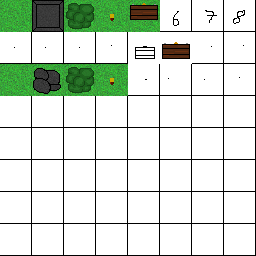
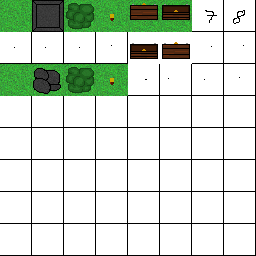
changes

Changed region(s): [[0.625, 0.0, 0.75, 0.125], [0.5, 0.1562, 0.625, 0.25]]

diff --git a/Game++ Tile/src/de/nerogar/game/entity/EntityPlayer.java b/Game++ Tile/src/de/nerogar/game/entity/EntityPlayer.java
@@ -29,6 +29,8 @@ public class EntityPlayer extends Entity {
 		maxEnergy = 100;
 		energy = maxEnergy;
 		moveSpeed = 3.0f;
+		
+		//light = new Light(0, 0, 5f,2.0f);
 	}
 
 	@Override
@@ -52,10 +54,6 @@ public class EntityPlayer extends Entity {
 			moveY(moveSpeed * time * speedmult);
 		}
 
-		if (Keyboard.isKeyDown(Keyboard.KEY_E)) {
-			map.setTile((int) posX, (int) posY, Map.TORCH);
-		}
-
 		if (Keyboard.isKeyDown(Keyboard.KEY_1)) {
 			selectedWeapon = 0;
 		} else if (Keyboard.isKeyDown(Keyboard.KEY_2) && weapons.size() > 1) {
@@ -65,6 +63,10 @@ public class EntityPlayer extends Entity {
 		} else if (Keyboard.isKeyDown(Keyboard.KEY_4) && weapons.size() > 3) {
 			selectedWeapon = 3;
 		}
+		if (InputHandler.isMouseButtonPressed(1)) {
+			selectedWeapon = (selectedWeapon + 1) % weapons.size();
+		}
+		selectedWeapon = (selectedWeapon - Integer.signum(Mouse.getDWheel()) + weapons.size()) % weapons.size();
 
 		for (Weapon weapon : weapons) {
 			weapon.update(time);
@@ -76,15 +78,11 @@ public class EntityPlayer extends Entity {
 
 			Weapon weapon = weapons.get(selectedWeapon);
 
-			if (weapon.cooldown <= 0f && energy >= weapon.getEnergyCost()) {
+			if (weapon.cooldown <= 0f && energy >= weapon.getEnergyCost() && weapon.canActivate()) {
 				weapons.get(selectedWeapon).start(targetX, targetY);
 				energy -= weapons.get(selectedWeapon).getEnergyCost();
 				weapon.cooldown = weapon.maxCooldown;
 			}
-		}
-
-		if (InputHandler.isMouseButtonPressed(1)) {
-			selectedWeapon = (selectedWeapon + 1) % weapons.size();
 		}
 
 		if (nextEnergyRestore <= 0 && energy < maxEnergy) {

diff --git a/Game++ Tile/src/de/nerogar/game/MapLoader.java b/Game++ Tile/src/de/nerogar/game/MapLoader.java
@@ -22,6 +22,10 @@ public class MapLoader {
 			return Map.TORCH.id;
 		case 0x0080:
 			return Map.CHEST.id;
+		case 0x00ff:
+			return Map.DOOR.id;
+		case 0xffff:
+			return Map.GRASS.id;//spawn
 
 		default:
 			return Map.GRASS.id;
@@ -30,6 +34,10 @@ public class MapLoader {
 
 	private static boolean hasMob(int color) {
 		return (color & 0xff0000) != 0x0;
+	}
+
+	private static boolean isSpawn(int color) {
+		return (color & 0x00ffff) == 0xffff;
 	}
 
 	private static Entity getEntity(Map map, int color, float posX, float posY) {
@@ -46,6 +54,9 @@ public class MapLoader {
 		int[] pixels;
 		int width;
 		int height;
+
+		float playerX = 0f;
+		float playerY = 0f;
 
 		try {
 			image = ImageIO.read(new File("res/" + filename));
@@ -68,9 +79,13 @@ public class MapLoader {
 				Entity entity = getEntity(map, pixels[i], i % mapSize, i / mapSize);
 				map.spawnEntity(entity);
 			}
+			if (isSpawn(pixels[i])) {
+				playerX = i % mapSize;
+				playerY = i / mapSize;
+			}
 		}
 
-		map.load(tileIDs, mapSize);
+		map.load(tileIDs, mapSize, playerX, playerY);
 		return map;
 	}
 }

diff --git a/Game++ Tile/src/de/nerogar/game/Map.java b/Game++ Tile/src/de/nerogar/game/Map.java
@@ -19,8 +19,12 @@ public class Map {
 	public static final Tile TREE = new Tile(2, true);
 	public static final Tile TORCH = new Tile(3, false);
 	public static final Tile CHEST = new Tile(4, true);
-
-	public static final Tile[] TILES = new Tile[] { GRASS, ROCK, TREE, TORCH, CHEST };
+	public static final Tile OPEN_CHEST = new Tile(5, true);
+	public static final Tile DOOR = new Tile(6, false);
+	public static final Tile DOOR_OPEN = new Tile(7, false);
+	public static final Tile FLOOR = new Tile(8, false);
+	
+	public static final Tile[] TILES = new Tile[] { GRASS, ROCK, TREE, TORCH, CHEST, OPEN_CHEST, DOOR, DOOR_OPEN };
 
 	public static final float TILE_RENDER_SIZE = 64f;
 	public static final float TEXTURE_SIZE = 256f;
@@ -172,10 +176,11 @@ public class Map {
 		tileIDs[x + y * size] = tile.id;
 	}
 
-	public void load(int[] tileIDs, int size) {
+	public void load(int[] tileIDs, int size, float playerX, float playerY) {
 		this.tileIDs = tileIDs;
 		this.size = size;
-
+		player.posX = playerX;
+		player.posY = playerY;
 	}
 
 	private void calcLightSources() {

diff --git a/Game++ Tile/src/de/nerogar/game/Game.java b/Game++ Tile/src/de/nerogar/game/Game.java
@@ -26,14 +26,14 @@ public class Game {
 
 	public void run() {
 		while (!Display.isCloseRequested()) {
-			long time1 = System.nanoTime();
+			//long time1 = System.nanoTime();
 			update();
 			render();
 			Display.sync(FRAMERATE);
 			Display.update();
 			glClear(GL_COLOR_BUFFER_BIT | GL_DEPTH_BUFFER_BIT);
-			long time2 = System.nanoTime();
-			System.out.println("time: " + ((time2 - time1) / 1000000d));
+			//long time2 = System.nanoTime();
+			//System.out.println("time: " + ((time2 - time1) / 1000000d));
 		}
 		SoundManager.shutdown();
 	}

diff --git a/Game++ Tile/src/de/nerogar/game/entity/Entity.java b/Game++ Tile/src/de/nerogar/game/entity/Entity.java
@@ -8,10 +8,17 @@ import de.nerogar.game.graphics.TextureBank;
 
 public abstract class Entity {
 
+	public static final int DIR_UP = 0;
+	public static final int DIR_DOWN = 1;
+	public static final int DIR_LEFT = 2;
+	public static final int DIR_RIGHT = 4;
+
 	public Map map;
 
 	public float posX;
 	public float posY;
+	public int facingDir;
+
 	public float width = 1f;
 	public float height = 1f;
 

diff --git a/Game++ Tile/src/de/nerogar/game/entity/EntitySmallEnemy.java b/Game++ Tile/src/de/nerogar/game/entity/EntitySmallEnemy.java
@@ -27,7 +27,9 @@ public class EntitySmallEnemy extends EntityEnemy {
 
 	@Override
 	public void onDie() {
-		Vector center = getCenter();
-		map.spawnEntity(new EntityEnergyDrop(map, center.getX(), center.getY()));
+		if (Math.random() < 0.3) {
+			Vector center = getCenter();
+			map.spawnEntity(new EntityEnergyDrop(map, center.getX(), center.getY()));
+		}
 	}
 }

diff --git a/Game++ Tile/src/de/nerogar/game/graphics/StatusBar.java b/Game++ Tile/src/de/nerogar/game/graphics/StatusBar.java
@@ -10,12 +10,11 @@ public class StatusBar {
 	private float textureHeight = pixelHeight / Map.TEXTURE_SIZE;
 	public float texturePos = 0;
 
-	private Map map;
 	public float posX;
 	public float posY;
 
-	public StatusBar(Map map) {
-		this.map = map;
+	public StatusBar() {
+
 	}
 
 	public void render() {

diff --git a/Game++ Tile/src/de/nerogar/game/graphics/GuiIngame.java b/Game++ Tile/src/de/nerogar/game/graphics/GuiIngame.java
@@ -14,8 +14,8 @@ public class GuiIngame extends Gui {
 
 	public GuiIngame(EntityPlayer player) {
 		this.player = player;
-		lifeBar = new StatusBar(player.map);
-		energyBar = new StatusBar(player.map);
+		lifeBar = new StatusBar();
+		energyBar = new StatusBar();
 		energyBar.texturePos = 1;
 	}
 

diff --git a/Game++ Tile/src/de/nerogar/game/weapon/Weapon.java b/Game++ Tile/src/de/nerogar/game/weapon/Weapon.java
@@ -26,6 +26,8 @@ public abstract class Weapon {
 
 	public abstract void start(float targetX, float targetY);
 
+	public abstract boolean canActivate();
+
 	public void update(float time) {
 		cooldown -= time;
 	}

diff --git a/Game++ Tile/src/de/nerogar/game/weapon/Heal.java b/Game++ Tile/src/de/nerogar/game/weapon/Heal.java
@@ -19,4 +19,9 @@ public class Heal extends Weapon {
 		return 20;
 	}
 
+	@Override
+	public boolean canActivate() {
+		return player.health != player.maxEnergy;
+	}
+
 }

diff --git a/Game++ Tile/src/de/nerogar/game/weapon/SlowDownArea.java b/Game++ Tile/src/de/nerogar/game/weapon/SlowDownArea.java
@@ -20,4 +20,9 @@ public class SlowDownArea extends Weapon {
 		return 15;
 	}
 
+	@Override
+	public boolean canActivate() {
+		return true;
+	}
+
 }

diff --git a/Game++ Tile/src/de/nerogar/game/weapon/FireBlast.java b/Game++ Tile/src/de/nerogar/game/weapon/FireBlast.java
@@ -20,4 +20,9 @@ public class FireBlast extends Weapon {
 		return 20;
 	}
 
+	@Override
+	public boolean canActivate() {
+		return true;
+	}
+
 }
